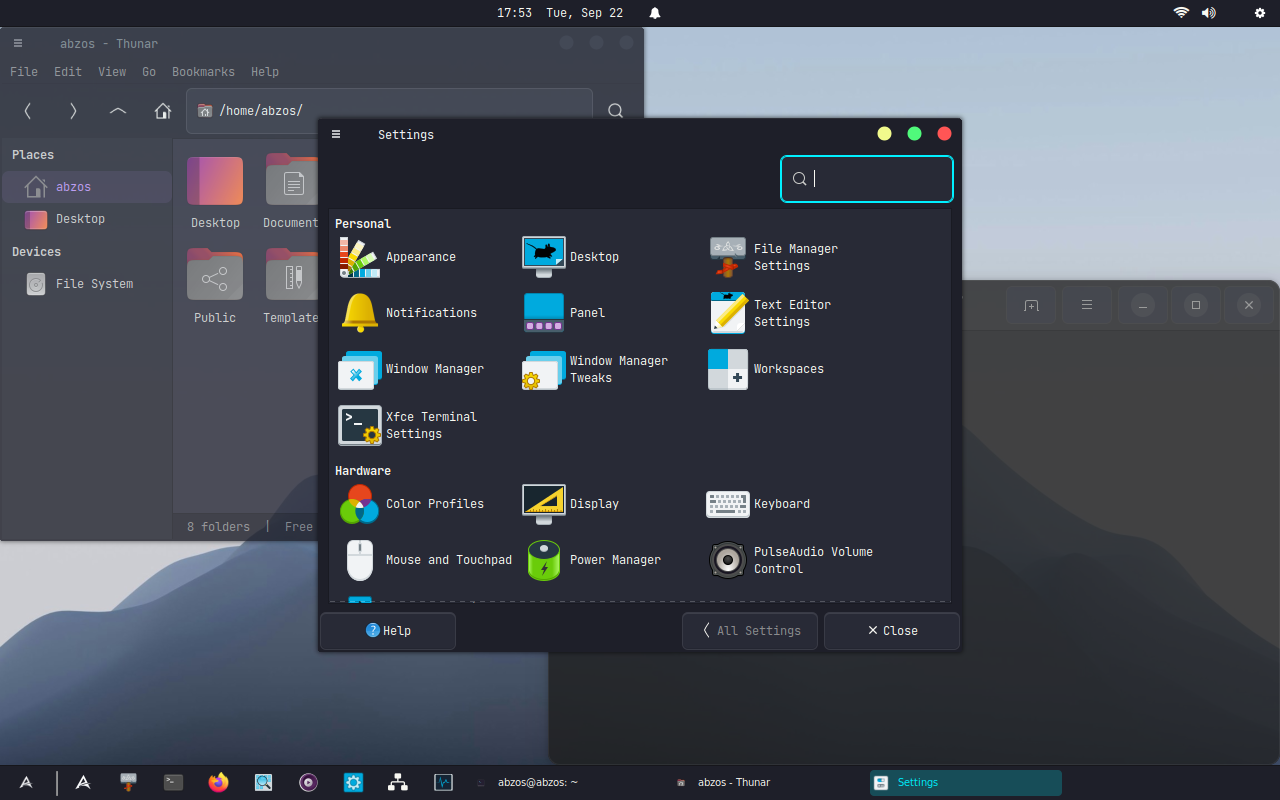
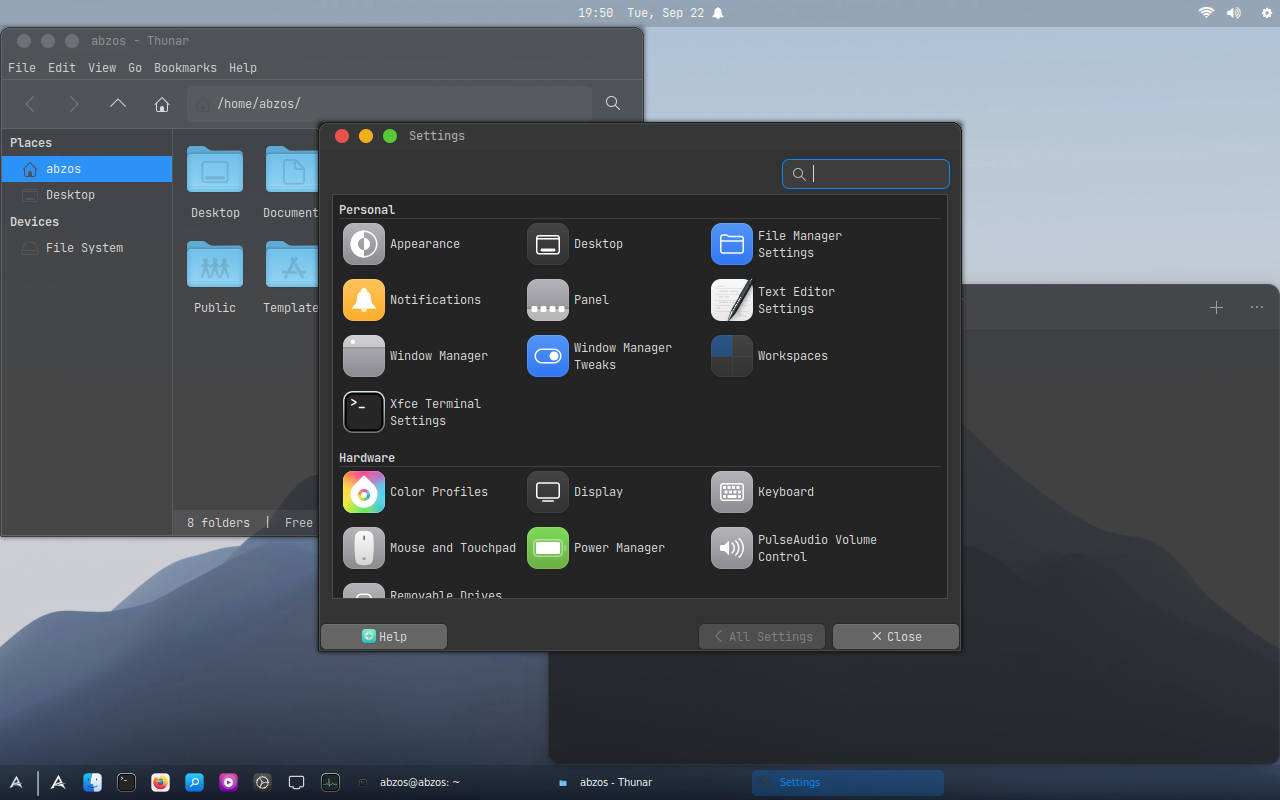
fix design v1

diff --git a/scripts/assets/config/gtk-3.0/gtk.css b/scripts/assets/config/gtk-3.0/gtk.css
@@ -1,10 +1,24 @@
-/* abzOS panel + GTK theme overrides
-   Theme: Ant-Dracula | Icons: Yaru-dark (Ubuntu) | Font: JetBrains Mono
-   Accent: #00f0ff (matches Kitty, Thunar selection, GRUB, Calamares) */
+/* abzOS panel overrides -- macOS (WhiteSur) style
+   Theme: WhiteSur-Dark | Icons: WhiteSur | Cursors: WhiteSur-cursors | Font: JetBrains Mono
+   Accent: #0A84FF (macOS system blue, dark mode) -- matches Kitty, GRUB, Calamares
+   Most dialog/Thunar/entry colors are left to WhiteSur-Dark itself; only
+   XFCE-panel structure (which the GTK theme doesn't cover) is styled here. */
 
 
 
 /*_-_-_-_-_-_-_-_-_-_ GLOBAL SETTINGS _-_-_-_-_-_-_-_-_-_*/
+
+/* Tooltip popups (e.g. whiskermenu item descriptions) need a solid opaque
+   background -- otherwise they can render see-through and overlap the
+   content underneath instead of covering it. */
+tooltip,
+tooltip.background {
+    background-color: #2d2d2d;
+    color: #f2f2f2;
+    border: 1px solid rgba(10, 132, 255, 0.25);
+    border-radius: 6px;
+    opacity: 1;
+}
 
 .xfce4-panel {
         font-family: 'Roboto Regular';
@@ -33,7 +47,7 @@
 }
 #whiskermenu-button:hover,
 #whiskermenu-button:checked {
-    background: rgba(0, 240, 255, 0.18);
+    background: rgba(10, 132, 255, 0.18);
     color: #ffffff;
     border-radius: 4px;
     margin: 4px;
@@ -50,8 +64,8 @@
 
 /*All Launcher*/ 
 #launcher-10 #launcher-arrow:hover {
-        background: rgba(0, 240, 255, 0.14);
-	border-color: rgba(0, 240, 255, 0.14);
+        background: rgba(10, 132, 255, 0.14);
+	border-color: rgba(10, 132, 255, 0.14);
         border-bottom-left-radius: 4px;
         border-bottom-right-radius: 4px;
         border-top-left-radius: 4px;
@@ -63,8 +77,8 @@
 }
 
 #launcher-11 #launcher-arrow:hover {
-        background: rgba(0, 240, 255, 0.14);
-	border-color: rgba(0, 240, 255, 0.14);
+        background: rgba(10, 132, 255, 0.14);
+	border-color: rgba(10, 132, 255, 0.14);
         border-bottom-left-radius: 4px;
         border-bottom-right-radius: 4px;
         border-top-left-radius: 4px;
@@ -76,8 +90,8 @@
 }
 
 #launcher-12 #launcher-arrow:hover {
-        background: rgba(0, 240, 255, 0.14);
-	border-color: rgba(0, 240, 255, 0.14);
+        background: rgba(10, 132, 255, 0.14);
+	border-color: rgba(10, 132, 255, 0.14);
         border-bottom-left-radius: 4px;
         border-bottom-right-radius: 4px;
         border-top-left-radius: 4px;
@@ -89,8 +103,8 @@
 }
 
 #launcher-13 #launcher-arrow:hover {
-        background: rgba(0, 240, 255, 0.14);
-	border-color: rgba(0, 240, 255, 0.14);
+        background: rgba(10, 132, 255, 0.14);
+	border-color: rgba(10, 132, 255, 0.14);
         border-bottom-left-radius: 4px;
         border-bottom-right-radius: 4px;
         border-top-left-radius: 4px;
@@ -102,8 +116,8 @@
 }
 
 #launcher-14 #launcher-arrow:hover {
-        background: rgba(0, 240, 255, 0.14);
-	border-color: rgba(0, 240, 255, 0.14);
+        background: rgba(10, 132, 255, 0.14);
+	border-color: rgba(10, 132, 255, 0.14);
         border-bottom-left-radius: 4px;
         border-bottom-right-radius: 4px;
         border-top-left-radius: 4px;
@@ -115,8 +129,8 @@
 }
 
 #launcher-15 #launcher-arrow:hover {
-        background: rgba(0, 240, 255, 0.14);
-	border-color: rgba(0, 240, 255, 0.14);
+        background: rgba(10, 132, 255, 0.14);
+	border-color: rgba(10, 132, 255, 0.14);
         border-bottom-left-radius: 4px;
         border-bottom-right-radius: 4px;
         border-top-left-radius: 4px;
@@ -128,8 +142,8 @@
 }
 
 #launcher-16 #launcher-arrow:hover {
-        background: rgba(0, 240, 255, 0.14);
-	border-color: rgba(0, 240, 255, 0.14);
+        background: rgba(10, 132, 255, 0.14);
+	border-color: rgba(10, 132, 255, 0.14);
         border-bottom-left-radius: 4px;
         border-bottom-right-radius: 4px;
         border-top-left-radius: 4px;
@@ -141,8 +155,8 @@
 }
 
 #launcher-17 #launcher-arrow:hover {
-        background: rgba(0, 240, 255, 0.14);
-	border-color: rgba(0, 240, 255, 0.14);
+        background: rgba(10, 132, 255, 0.14);
+	border-color: rgba(10, 132, 255, 0.14);
         border-bottom-left-radius: 4px;
         border-bottom-right-radius: 4px;
         border-top-left-radius: 4px;
@@ -166,8 +180,8 @@
         padding: 0px;
 }
 .xfce4-panel .tasklist .toggle:hover {
-        background: rgba(0, 240, 255, 0.12);
-	border-color: rgba(0, 240, 255, 0.12);
+        background: rgba(10, 132, 255, 0.12);
+	border-color: rgba(10, 132, 255, 0.12);
         border-bottom-left-radius: 4px;
         border-bottom-right-radius: 4px;
         border-top-left-radius: 4px;
@@ -177,8 +191,8 @@
 }
 .xfce4-panel .tasklist .toggle:checked,
 .xfce4-panel .tasklist .toggle:checked:hover {
-        background: rgba(0, 240, 255, 0.22);
-	border-color: rgba(0, 240, 255, 0.22);
+        background: rgba(10, 132, 255, 0.22);
+	border-color: rgba(10, 132, 255, 0.22);
         border-bottom-left-radius: 4px;
         border-bottom-right-radius: 4px;
         border-top-left-radius: 4px;
@@ -207,9 +221,9 @@
         padding: 5px;
 }
 #xfce4-power-manager-plugin:hover {
-        background: rgba(0, 240, 255, 0.14);
+        background: rgba(10, 132, 255, 0.14);
         color: #ffffff;
-	border-color: rgba(0, 240, 255, 0.14);
+	border-color: rgba(10, 132, 255, 0.14);
         border-bottom-left-radius: 4px;
         border-bottom-right-radius: 4px;
         border-top-left-radius: 4px;
@@ -229,9 +243,9 @@
 	padding: 5px;
 }
 #xfce4-notification-plugin:hover {
-        background: rgba(0, 240, 255, 0.14);
+        background: rgba(10, 132, 255, 0.14);
 	color: #ffffff;
-	border-color: rgba(0, 240, 255, 0.14);
+	border-color: rgba(10, 132, 255, 0.14);
         border-bottom-left-radius: 4px;
         border-bottom-right-radius: 4px;
         border-top-left-radius: 4px;
@@ -251,9 +265,9 @@
         padding: 5px;
 }
 #pulseaudio-button:hover {
-        background: rgba(0, 240, 255, 0.14);
+        background: rgba(10, 132, 255, 0.14);
 	color: #ffffff;
-	border-color: rgba(0, 240, 255, 0.14);
+	border-color: rgba(10, 132, 255, 0.14);
         border-bottom-left-radius: 4px;
         border-bottom-right-radius: 4px;
         border-top-left-radius: 4px;
@@ -274,9 +288,9 @@
 }
 
 #clock-button:hover {
-        background: rgba(0, 240, 255, 0.14);
+        background: rgba(10, 132, 255, 0.14);
 	color: #ffffff;
-	border-color: rgba(0, 240, 255, 0.14);
+	border-color: rgba(10, 132, 255, 0.14);
         border-bottom-left-radius: 4px;
         border-bottom-right-radius: 4px;
         border-top-left-radius: 4px;
@@ -292,8 +306,8 @@
     padding: 2px;
 }
 .xfce4-panel .launcher button:hover {
-    background: rgba(0, 240, 255, 0.14);
-    border-color: rgba(0, 240, 255, 0.14);
+    background: rgba(10, 132, 255, 0.14);
+    border-color: rgba(10, 132, 255, 0.14);
     border-radius: 4px;
     margin: 2px;
     padding: 2px;
@@ -302,93 +316,31 @@
     -gtk-icon-transform: scale(0.75);
 }
 
-/* --- Dark Theme Enhancements for Thunar, Settings, and GTK Apps --- */
+/* --- Accent-only touches on top of WhiteSur-Dark's own colors --- */
 * {
-    -gtk-secondary-caret-color: #00f0ff;
+    -gtk-secondary-caret-color: #0A84FF;
 }
 
-window,
-dialog,
-.background {
-    background-color: #1e1f29;
-    color: #f8f8f2;
-}
-
-/* Thunar File Manager Dark Styling */
-thunar-window,
-.thunar,
-thunar-tree-view,
-thunar-location-bar,
-thunar-statusbar {
-    background-color: #1e1f29;
-    color: #f8f8f2;
-}
-
-thunar-window .sidebar,
-thunar-window .sidebar .view,
-thunar-window treeview {
-    background-color: #181a24;
-    color: #abb2bf;
-    border-right: 1px solid rgba(255, 255, 255, 0.05);
-}
-
-thunar-window .standard-view {
-    background-color: #1e1f29;
-    color: #f8f8f2;
-}
-
-thunar-window .view:selected,
-thunar-window treeview:selected,
-thunar-window .standard-view:selected {
-    background-color: #3b4261;
-    color: #00f0ff;
-    border-radius: 4px;
-}
-
-/* XFCE Settings Dialogs Dark Styling */
-.xfce-settings-dialog,
-.xfce-settings-dialog iconview,
-.xfce-settings-dialog scrolledwindow,
-.xfce-settings-dialog viewport {
-    background-color: #1e1f29;
-    color: #f8f8f2;
-}
-
-/* Inputs & Text Entries */
-entry,
-searchentry {
-    background-color: #282a36;
-    color: #f8f8f2;
-    border: 1px solid rgba(255, 255, 255, 0.1);
-    border-radius: 6px;
-    padding: 6px 10px;
+/* Unify GTK's selection color with our macOS-blue accent everywhere --
+   whiskermenu, lists, treeviews, Thunar, etc. WhiteSur-Dark already supplies
+   the base window/dialog/entry/button colors, so we don't fight it here. */
+*:selected,
+row:selected,
+treeview:selected,
+treeview.view:selected {
+    background-color: #0A84FF;
+    color: #ffffff;
 }
 
 entry:focus,
 searchentry:focus {
-    border-color: #00f0ff;
-    box-shadow: 0 0 0 1px #00f0ff;
-}
-
-/* General Buttons */
-button {
-    background-color: #282a36;
-    color: #f8f8f2;
-    border: 1px solid rgba(255, 255, 255, 0.08);
-    border-radius: 6px;
-    padding: 6px 12px;
-}
-
-button:hover {
-    background-color: #383a4c;
-    color: #ffffff;
-    border-color: rgba(255, 255, 255, 0.2);
+    border-color: #0A84FF;
+    box-shadow: 0 0 0 1px #0A84FF;
 }
 
 button:active,
 button:checked {
-    background-color: #44475a;
-    color: #00f0ff;
+    color: #0A84FF;
 }
 
 /* Toolbar / pathbar buttons (Thunar back/forward/up/home, breadcrumb) stay flat,
@@ -419,8 +371,8 @@ toolbar button:checked,
 .path-bar button:checked,
 pathbar button:active,
 pathbar button:checked {
-    background-color: rgba(0, 240, 255, 0.16);
-    color: #00f0ff;
+    background-color: rgba(10, 132, 255, 0.16);
+    color: #0A84FF;
     border: none;
 }
 

diff --git a/scripts/assets/apps/abzos_ui_common.py b/scripts/assets/apps/abzos_ui_common.py
@@ -1,7 +1,7 @@
 """Shared GTK styling and process helpers for abzOS's Control Center and
 Notification Center. Both are small always-launch-fresh popup apps (not
 long-running daemons), styled to match the rest of the system: dark navy
-cards, cyan (#00f0ff) accent, JetBrains Mono for numbers/labels.
+cards, macOS system blue (#0A84FF) accent, JetBrains Mono for numbers/labels.
 """
 import shutil
 import subprocess
@@ -18,7 +18,7 @@ window.abzos-panel {
 box.abzos-card {
     background-color: rgba(16, 20, 30, 0.98);
     border-radius: 18px;
-    border: 1px solid rgba(0, 240, 255, 0.18);
+    border: 1px solid rgba(10, 132, 255, 0.18);
     padding: 16px;
 }
 button.abzos-pill {
@@ -35,12 +35,12 @@ button.abzos-pill:hover {
     background-color: rgba(255, 255, 255, 0.10);
 }
 button.abzos-pill.active {
-    background-color: #00c2d6;
-    color: #05141a;
+    background-color: #0A84FF;
+    color: #ffffff;
 }
 button.abzos-pill.active label,
 button.abzos-pill.active .abzos-sub {
-    color: #05141a;
+    color: #ffffff;
 }
 button.abzos-icon-btn {
     background-color: rgba(255, 255, 255, 0.06);
@@ -83,7 +83,7 @@ scale.abzos-slider trough {
     min-height: 6px;
 }
 scale.abzos-slider highlight {
-    background-color: #00f0ff;
+    background-color: #0A84FF;
     border-radius: 8px;
     min-height: 6px;
 }
@@ -153,5 +153,15 @@ def position_top_right(window, width, margin_top=32, margin_right=12):
     monitor = screen.get_display().get_primary_monitor() or screen.get_display().get_monitor(0)
     geo = monitor.get_geometry()
     x = geo.x + geo.width - width - margin_right
+    y = geo.y + margin_top
+    window.move(x, y)
+
+
+def position_top_center(window, width, margin_top=32):
+    """Center under the top-bar clock, which itself sits at screen center."""
+    screen = Gdk.Screen.get_default()
+    monitor = screen.get_display().get_primary_monitor() or screen.get_display().get_monitor(0)
+    geo = monitor.get_geometry()
+    x = geo.x + (geo.width - width) // 2
     y = geo.y + margin_top
     window.move(x, y)
